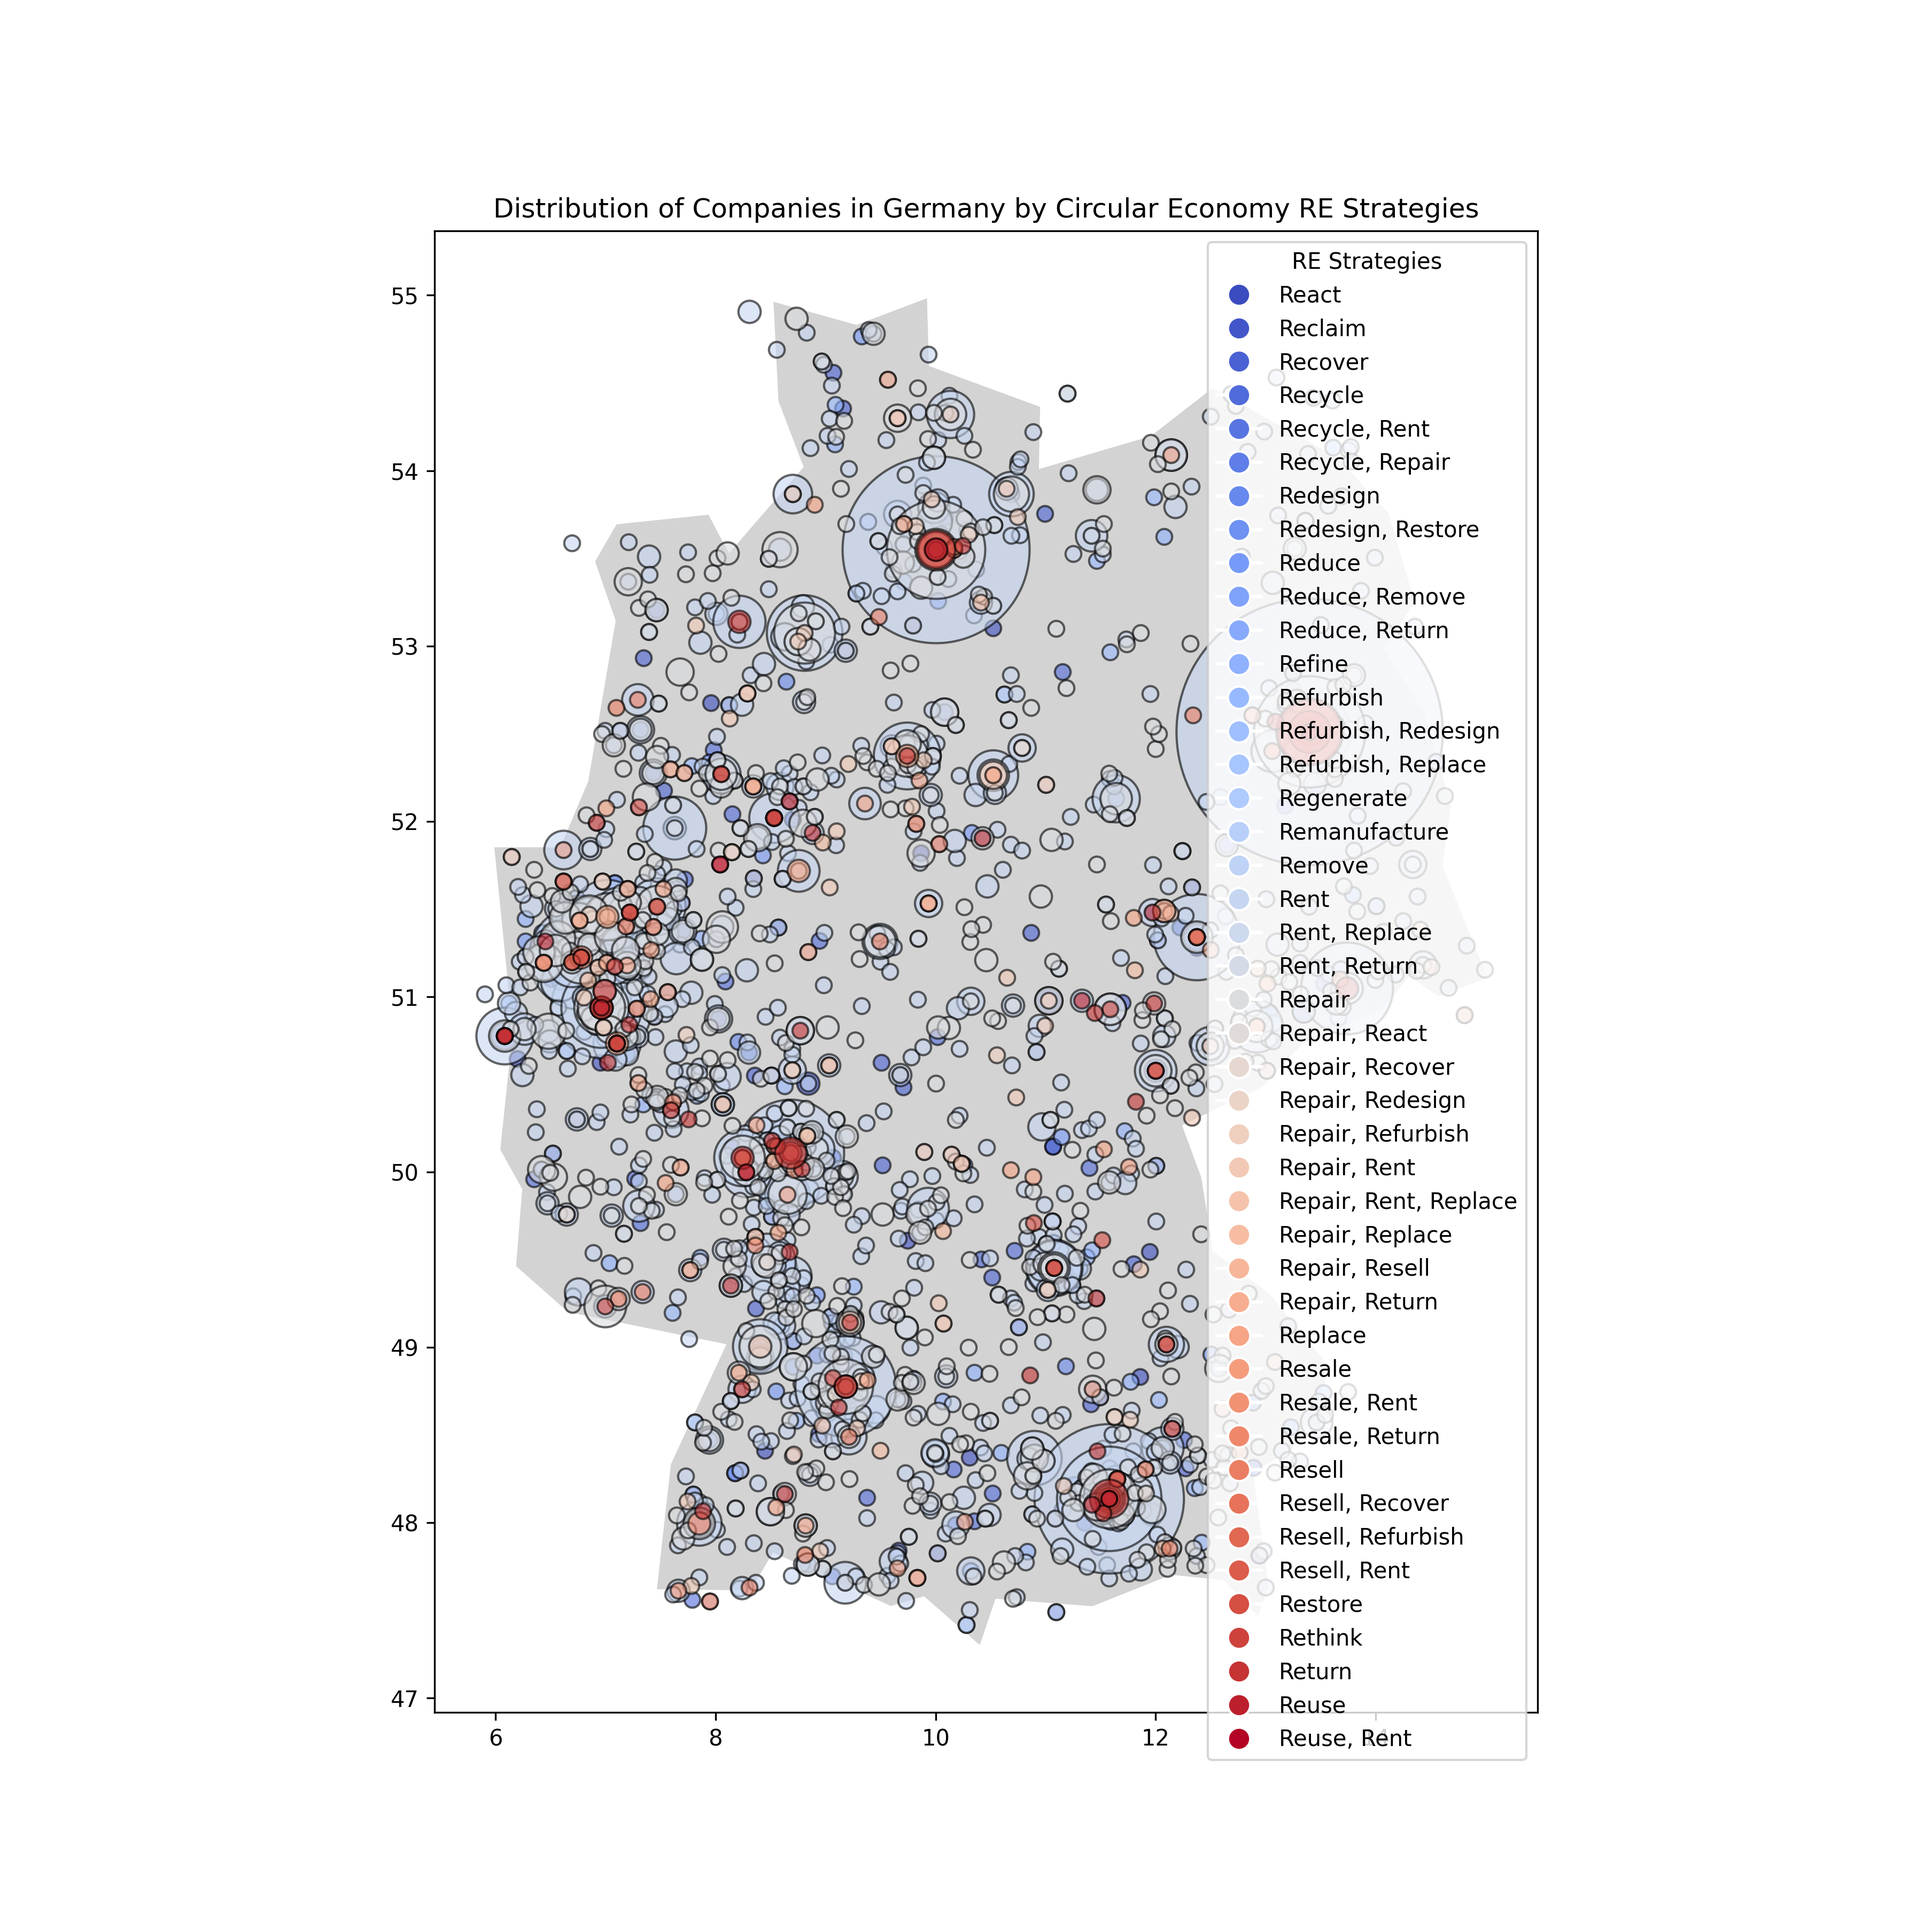
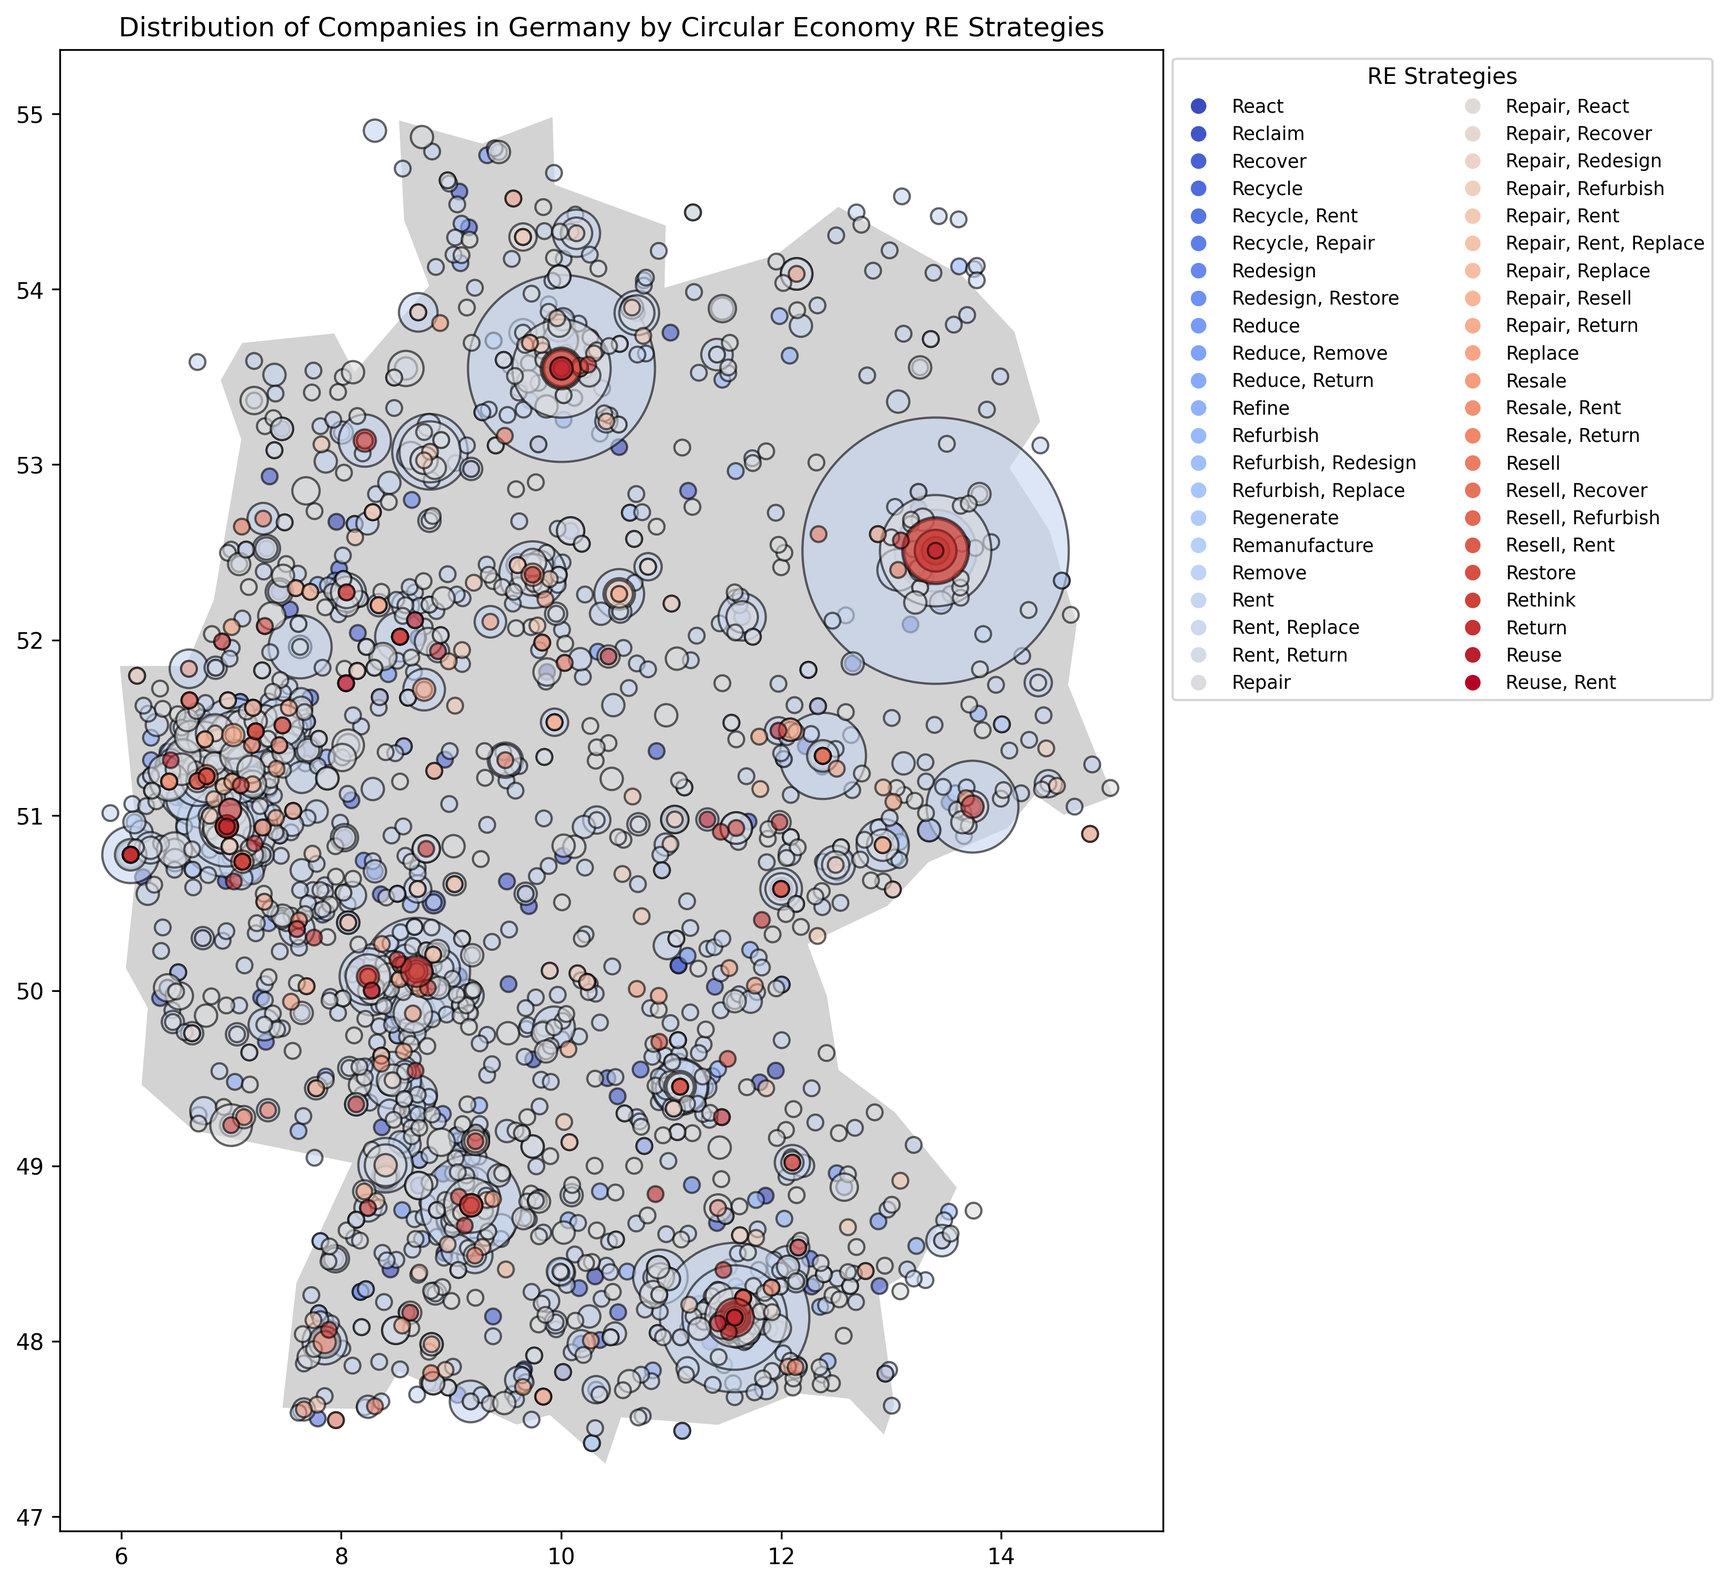
fixed legend

diff --git a/tasks/mapping.py b/tasks/mapping.py
@@ -125,13 +125,16 @@ def generate_germany_map(categorized_csv, output_image, cache_file='city_coords_
                     lat, lon = city_coords[city]
                     ax.scatter(lon, lat, s=row[strategy] * 50, color=colors(i), alpha=0.6, edgecolor='black', label=strategy)
 
-    legend_elements = [plt.Line2D([0], [0], marker='o', color='w', markerfacecolor=colors(i), markersize=10, label=strategy) for i, strategy in enumerate(strategies)]
-    plt.legend(handles=legend_elements, title="RE Strategies", loc='upper right')
+    # Create a legend with multiple columns and smaller marker size
+    legend_elements = [plt.Line2D([0], [0], marker='o', color='w', markerfacecolor=colors(i), markersize=8, label=strategy) for i, strategy in enumerate(strategies)]
+    
+    # Set number of columns in the legend
+    plt.legend(handles=legend_elements, title="RE Strategies", loc='upper left', bbox_to_anchor=(1, 1), ncol=2, fontsize='small', title_fontsize='medium')
 
     plt.title('Distribution of Companies in Germany by Circular Economy RE Strategies')
 
     logger.info(f"Saving map to {output_image}")
-    plt.savefig(output_image, dpi=300)
+    plt.savefig(output_image, dpi=300, bbox_inches='tight')  # Ensure everything fits within the output image
 
     plt.show()
     logger.info("Map generation completed")
